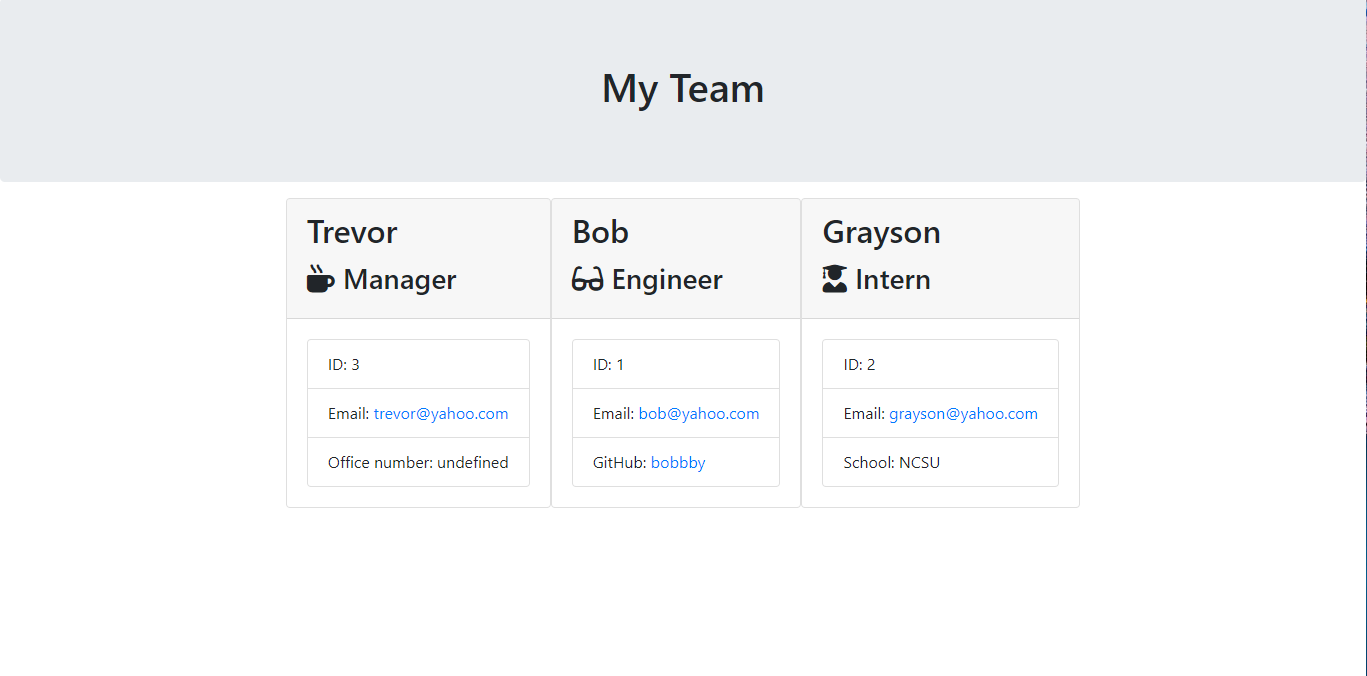
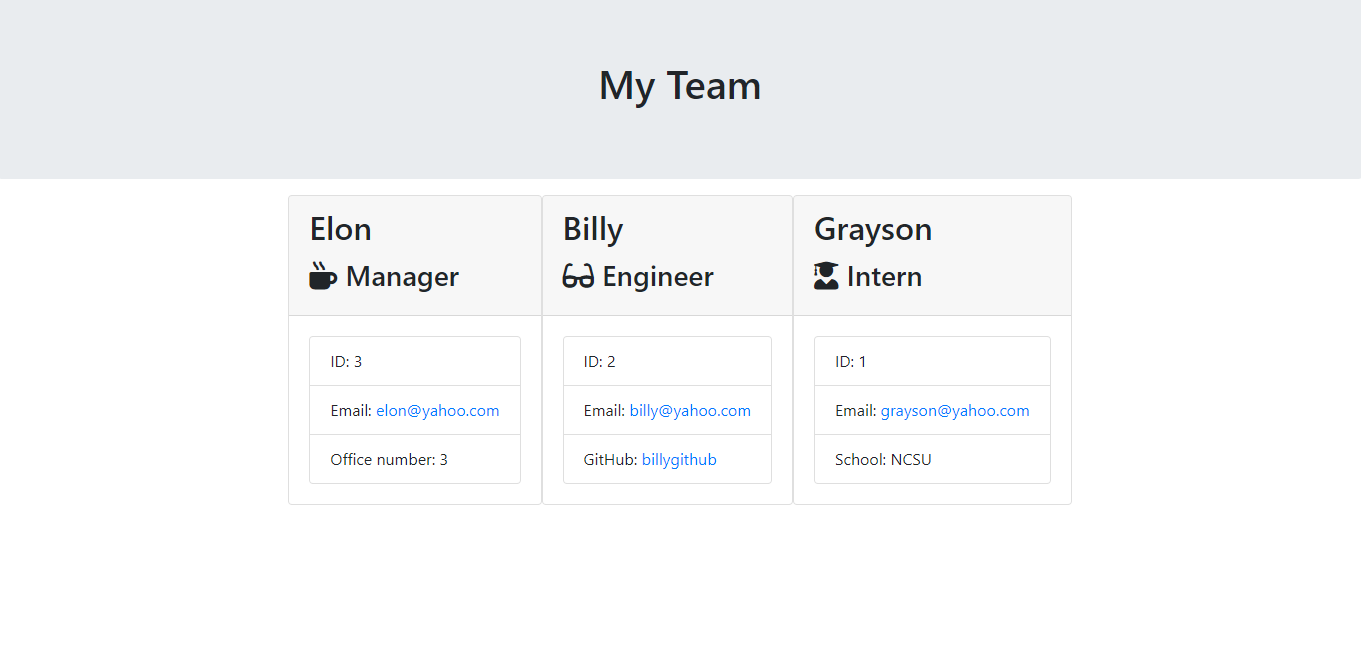
Screenshot in assets folder.

diff --git a/output/team.html b/output/team.html
@@ -25,14 +25,40 @@
             <div class="team-area col-12 d-flex justify-content-center">
                 <div class="card employee-card">
     <div class="card-header">
-        <h2 class="card-title">B</h2>
+        <h2 class="card-title">Elon</h2>
         <h3 class="card-title"><i class="fas fa-mug-hot mr-2"></i>Manager</h3>
     </div>
     <div class="card-body">
         <ul class="list-group">
-            <li class="list-group-item">ID: b</li>
-            <li class="list-group-item">Email: <a href="mailto:b">b</a></li>
+            <li class="list-group-item">ID: 3</li>
+            <li class="list-group-item">Email: <a href="mailto:elon@yahoo.com">elon@yahoo.com</a></li>
             <li class="list-group-item">Office number: 3</li>
+        </ul>
+    </div>
+</div>
+<div class="card employee-card">
+    <div class="card-header">
+        <h2 class="card-title">Billy</h2>
+        <h3 class="card-title"><i class="fas fa-glasses mr-2"></i>Engineer</h3>
+    </div>
+    <div class="card-body">
+        <ul class="list-group">
+            <li class="list-group-item">ID: 2</li>
+            <li class="list-group-item">Email: <a href="mailto:billy@yahoo.com">billy@yahoo.com</a></li>
+            <li class="list-group-item">GitHub: <a href="https://github.com/billygithub" target="_blank" rel="noopener noreferrer">billygithub</a></li>
+        </ul>
+    </div>
+</div>
+<div class="card employee-card">
+    <div class="card-header">
+        <h2 class="card-title">Grayson</h2>
+        <h3 class="card-title"><i class="fas fa-user-graduate mr-2"></i>Intern</h3>
+    </div>
+    <div class="card-body">
+        <ul class="list-group">
+            <li class="list-group-item">ID: 1</li>
+            <li class="list-group-item">Email: <a href="mailto:grayson@yahoo.com">grayson@yahoo.com</a></li>
+            <li class="list-group-item">School: NCSU</li>
         </ul>
     </div>
 </div>
